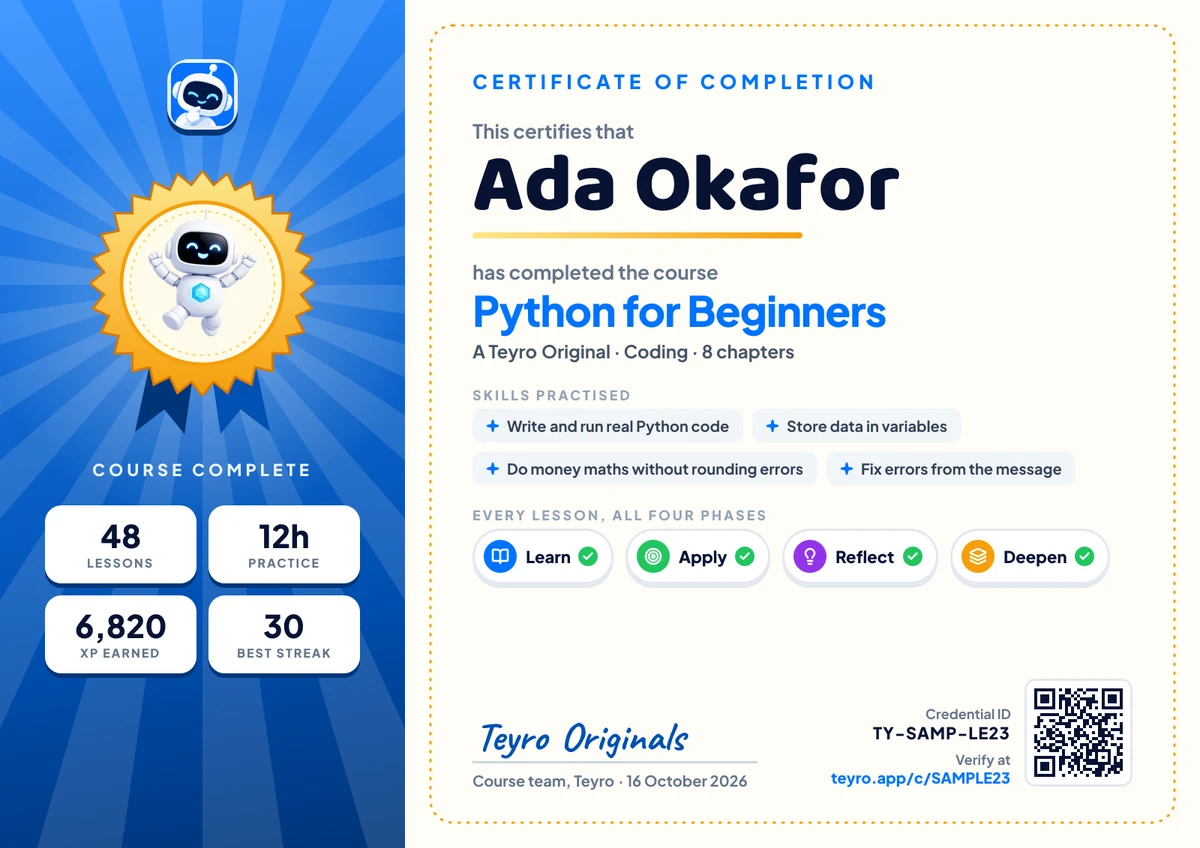
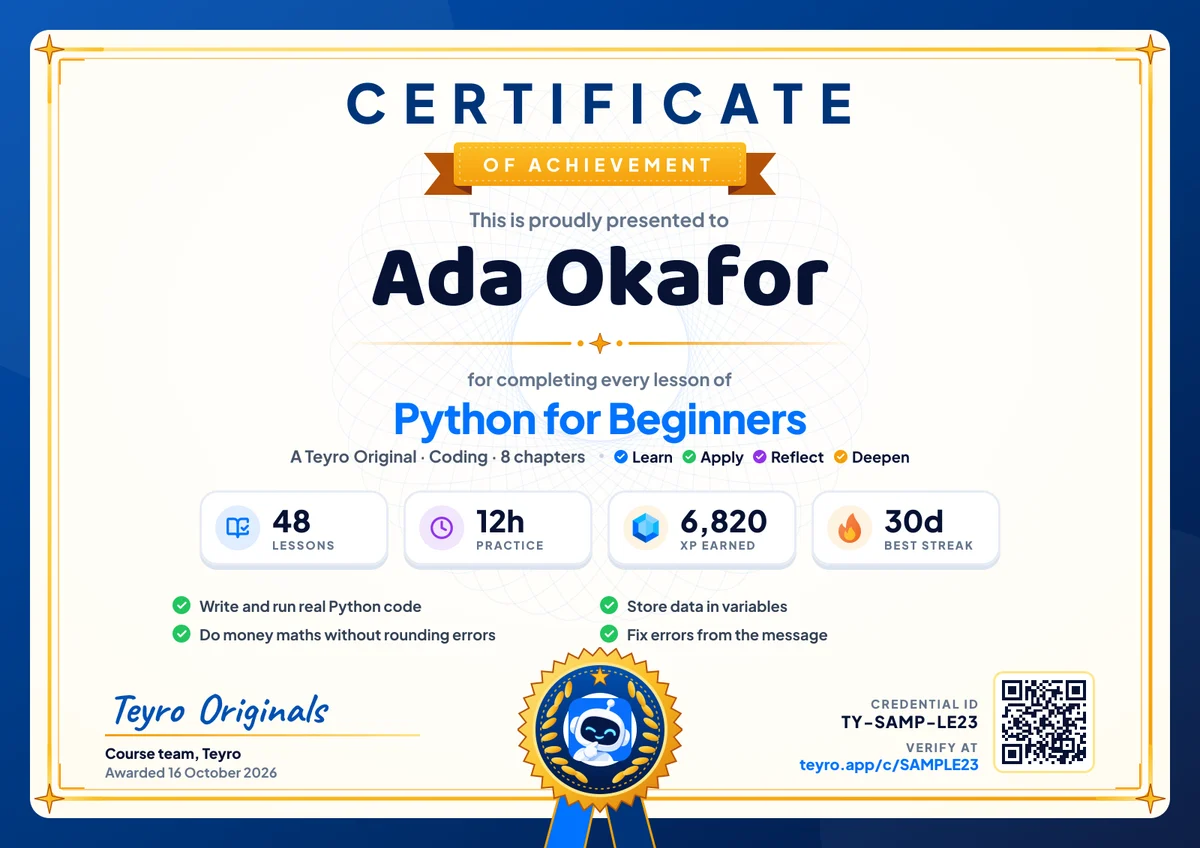
feat(home): the certificate section shows the Gold Medal certificate
The homepage still showed the 18 Oct design. The picture is now the real
renderer's Gold Medal output (/c/SAMPLE23/image), the copy says the name is
the learner's confirmed real name and lists the XP and streak on it, and the
Verified badge uses Teyro's shieldCheck glyph instead of a stock icon.
Also gives single-shape glyphs a key so React stops warning in dev.

diff --git a/frontend/components/homepage/v3/Sections.tsx b/frontend/components/homepage/v3/Sections.tsx
@@ -18,12 +18,12 @@ import {
   GraduationCap,
   Laptop,
   Repeat,
-  ShieldCheck,
   Smartphone,
   Sparkles,
   Workflow,
 } from 'lucide-react';
 import Accordion from '@/components/ui/Accordion';
+import { Glyph } from '@/components/art/Glyph';
 import LaunchBadges from '@/components/homepage/v2/LaunchBadges';
 import { APP_LAUNCHES, LEARNER_ENTRY, STUDIO_OPENS } from '@/lib/launch';
 import {
@@ -332,9 +332,10 @@ function Split({
 // ─── Certificates ────────────────────────────────────────────────────────────
 //
 // Every course ends in a certificate (backend/src/certificate): issued on
-// completing every published lesson, verifiable at teyro.app/c/<code>, with a
-// one-tap LinkedIn add. The picture is the real renderer's output
-// (/c/SAMPLE23/image in dev) saved as public/certificate-sample.webp.
+// completing every published lesson, printed with the real name the learner
+// confirms first, verifiable at teyro.app/c/<code>, with a one-tap LinkedIn
+// add. The picture is the real renderer's output (the Gold Medal design,
+// /c/SAMPLE23/image in dev) saved as public/certificate-sample.webp.
 
 export function Certificates() {
   return (
@@ -346,20 +347,24 @@ export function Certificates() {
           Finish it. <em>Prove it.</em>
         </>
       }
-      copy="Complete every lesson of any Teyro course and you earn a certificate with your name, the skills you practised and a credential ID anyone can check."
-      points={['A certificate for every course you finish', 'A QR code and link that verify it in seconds', 'Add it to LinkedIn, download it or print it']}
+      copy="Complete every lesson of any Teyro course and you earn a certificate of achievement: your real name, the skills you practised, your XP and best streak, and a credential ID anyone can check."
+      points={[
+        'Your real name, confirmed by you before it prints',
+        'A QR code and link that verify it in seconds',
+        'Add it to LinkedIn, download it or print it',
+      ]}
       visual={
         <div className={s.certVisual}>
           <Image
             src="/certificate-sample.webp"
-            alt="A Teyro certificate of completion for Python for Beginners"
+            alt="A Teyro certificate of achievement for Python for Beginners, with a gold medal, the learner's stats and a credential ID"
             width={1200}
             height={848}
             sizes="(max-width: 768px) 92vw, 560px"
             className={s.certImg}
           />
           <span className={s.certBadge}>
-            <ShieldCheck size={18} strokeWidth={2.6} aria-hidden="true" />
+            <Glyph name="shieldCheck" size={18} strokeWidth={2.6} />
             Verified by Teyro
           </span>
         </div>

diff --git a/frontend/components/art/Glyph.tsx b/frontend/components/art/Glyph.tsx
@@ -953,7 +953,7 @@ type ShapeProps = { stroke?: string; fill?: string };
 function splitCuts(node: ReactNode): { shapes: ReactNode[]; cuts: ReactNode[] } {
   const parts = isValidElement<{ children?: ReactNode }>(node) && typeof node.type !== 'string'
     ? Children.toArray(node.props.children)
-    : [node];
+    : Children.toArray(node);
   const shapes: ReactNode[] = [];
   const cuts: ReactNode[] = [];
   for (const part of parts) {
